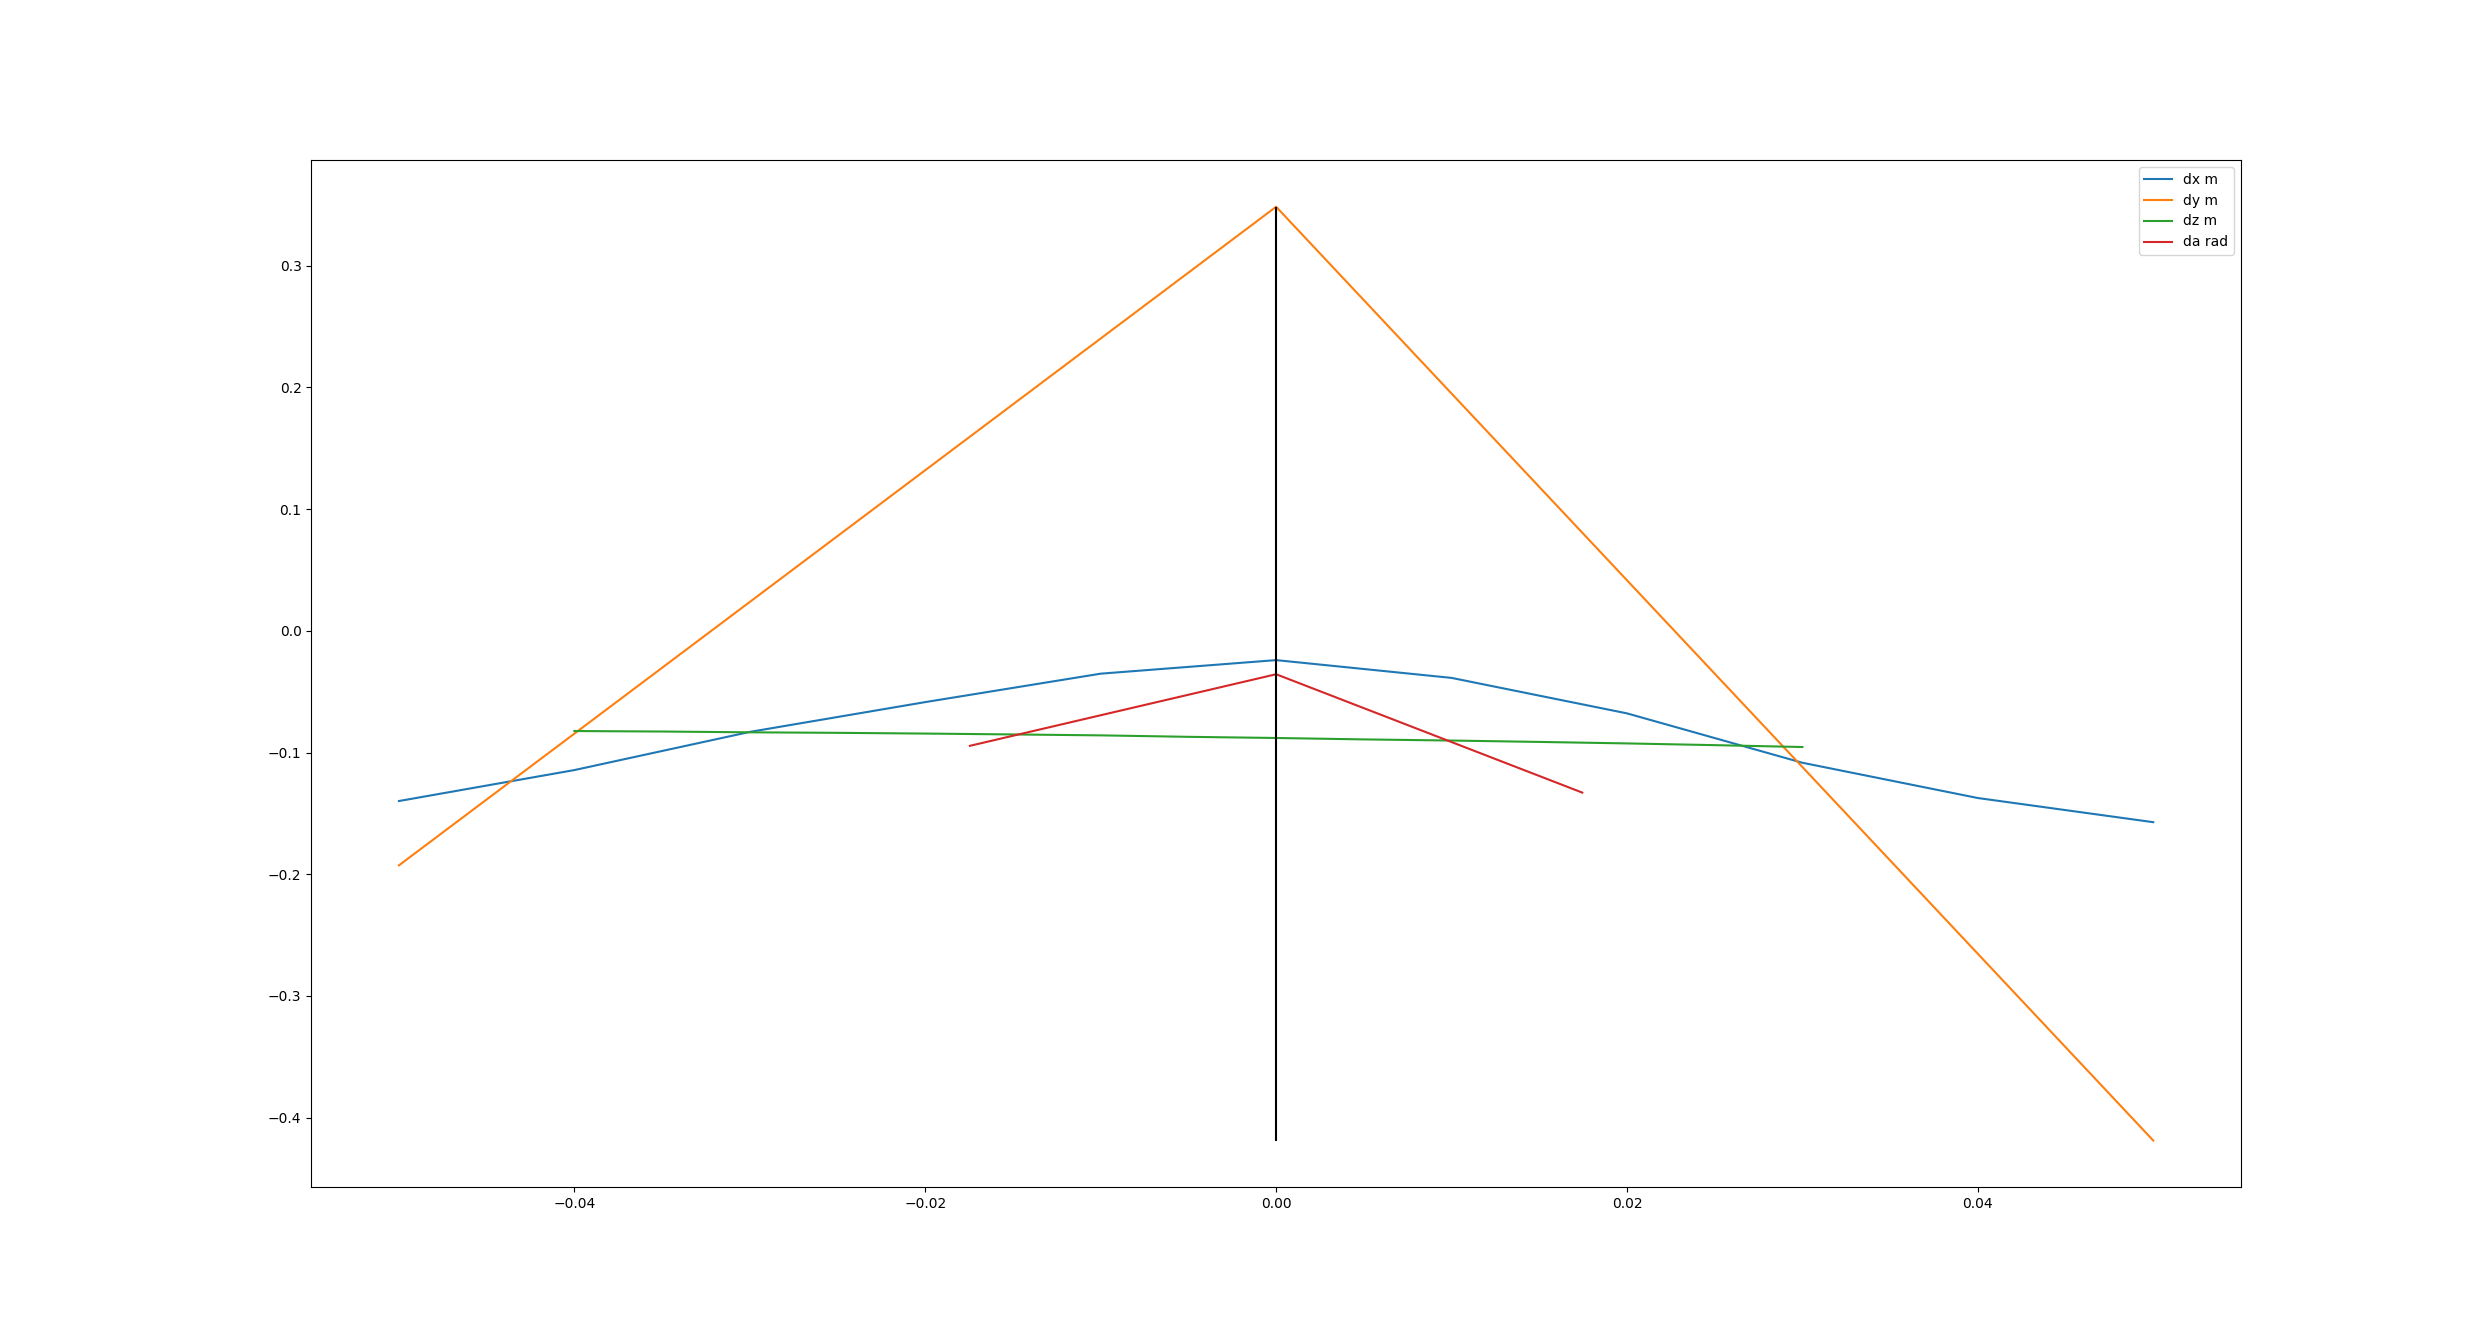
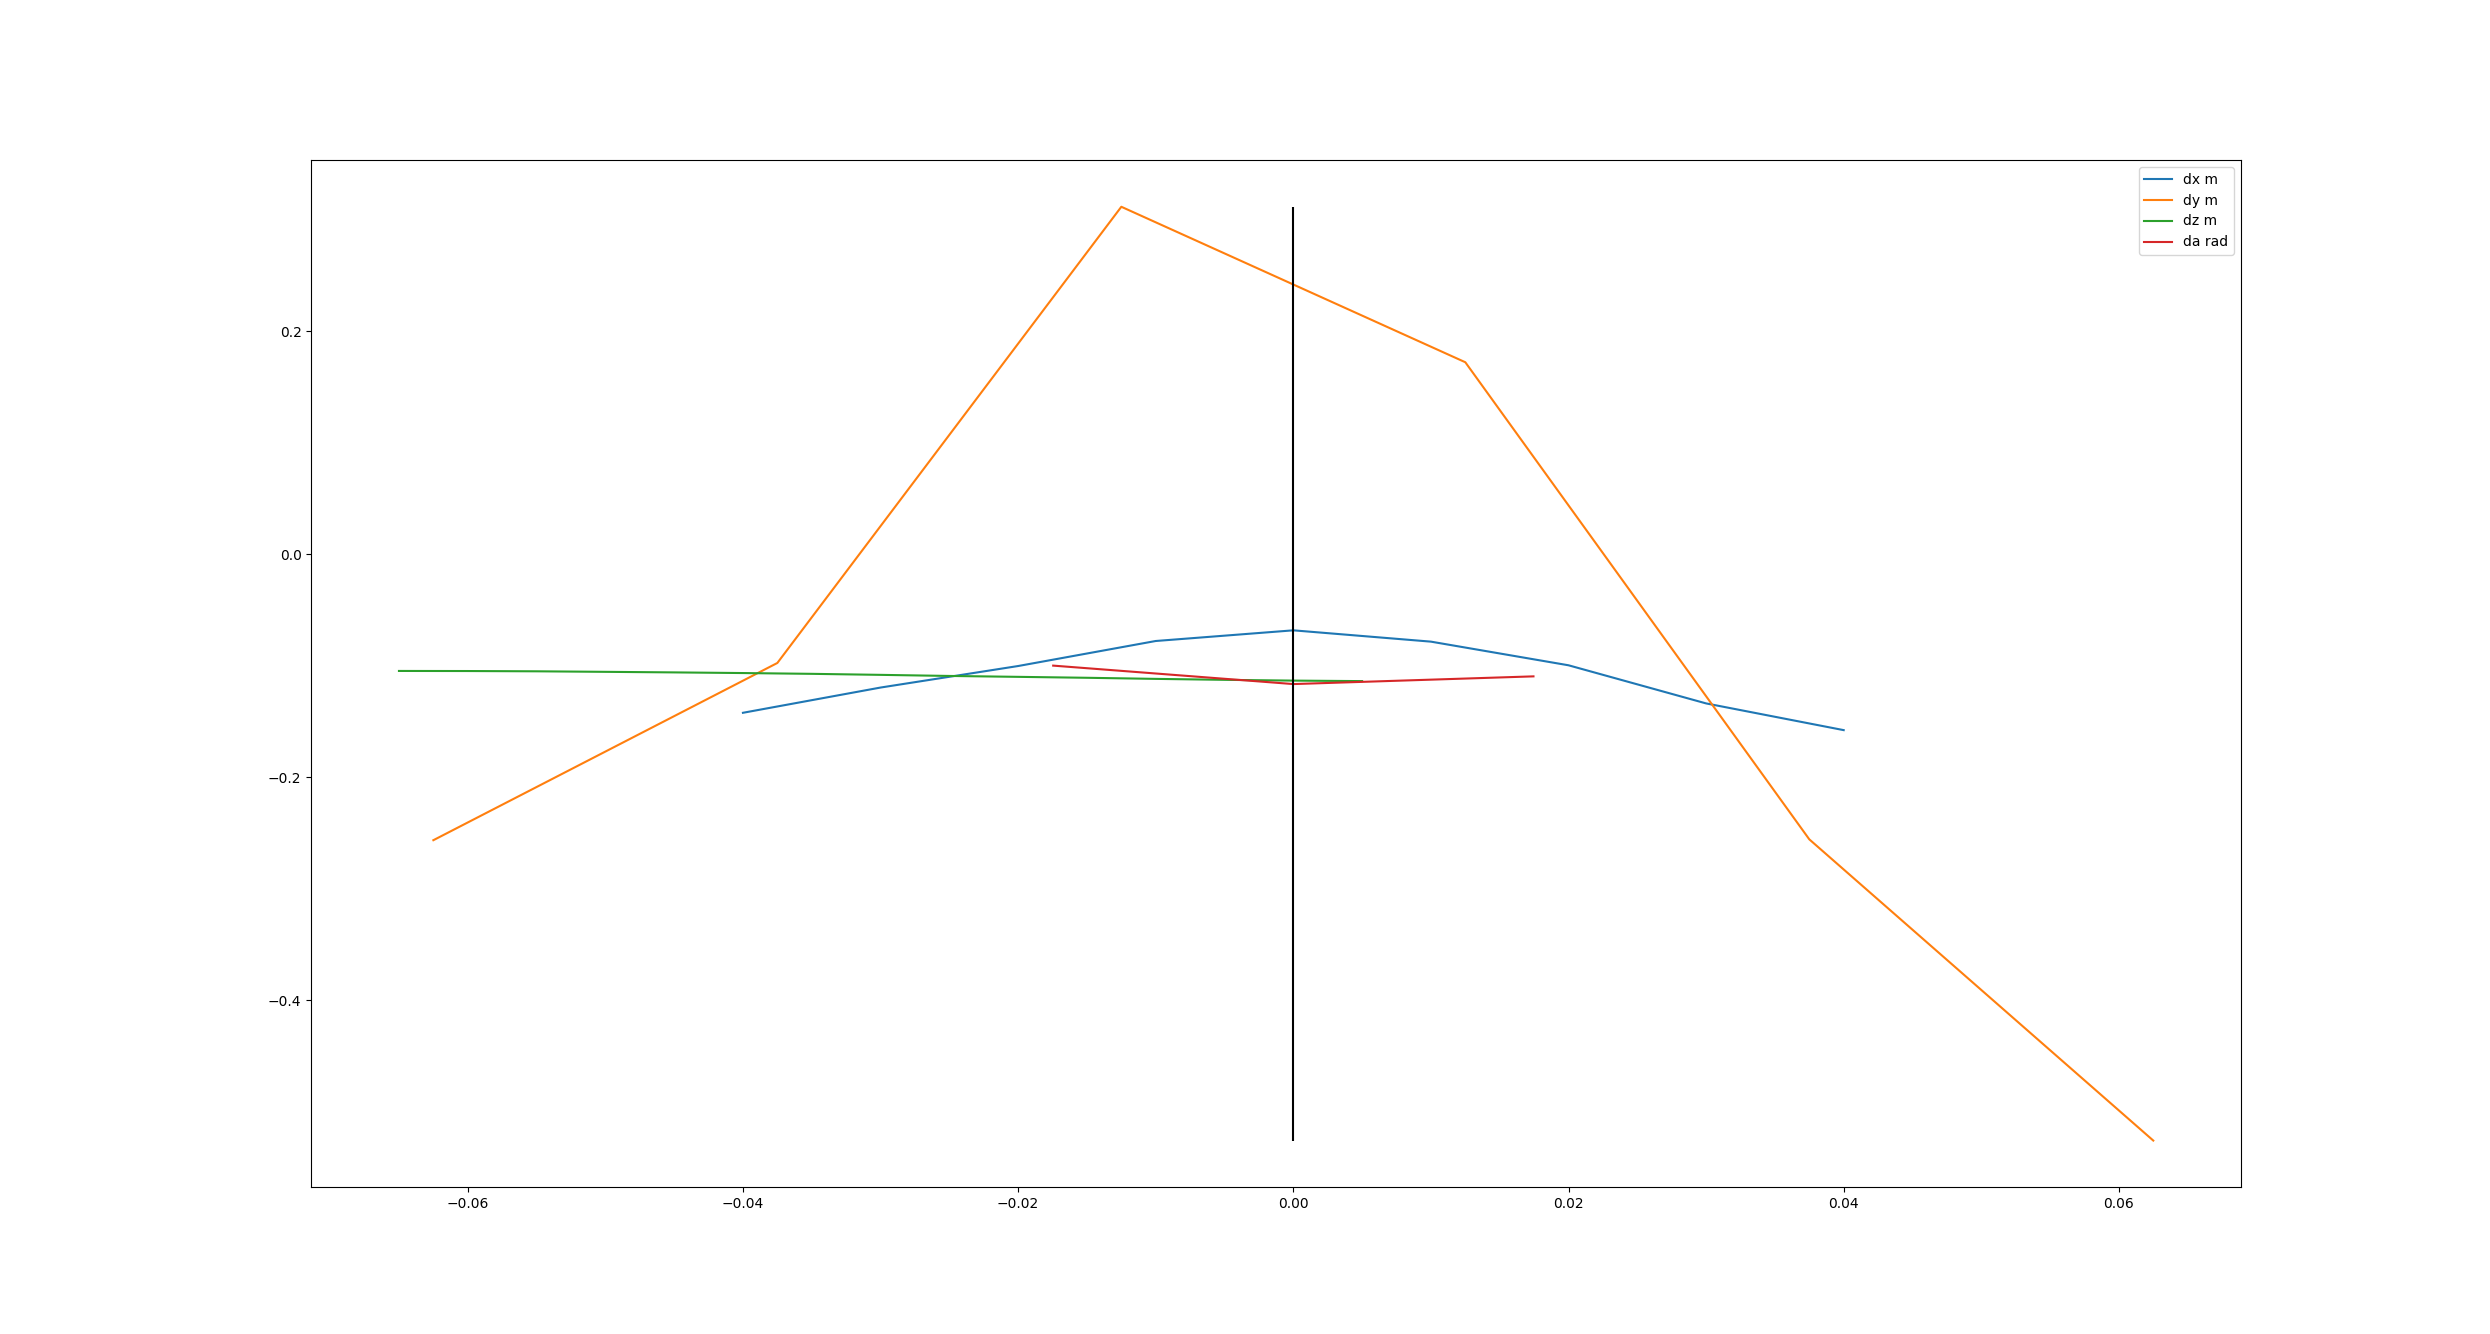
New test range for finer result over the Z axis

diff --git a/Setup_Camera/script_setup_multi.py b/Setup_Camera/script_setup_multi.py
@@ -9,7 +9,7 @@ from utils.classes.Cameras import RGBCamera, IRCamera
 from module.SetupCameras import CameraSetup
 from utils.manipulation_tools import random_noise, noise
 
-cam = 'IR'
+cam = 'RGB'
 setup = 'raw'
 name_path = f'Setup_Camera/position_{"ir" if cam=="IR" else "rgb"}{"_finer" if setup == "fine" else ""}'
 
@@ -33,11 +33,11 @@ if setup == 'raw':
     vec_alpha = (np.arange(0, 4, 1) / 180 * np.pi).tolist()
 
 elif setup == 'fine':
-    vec_x = np.arange(0, 11 * 1e-2, 1e-2)
+    vec_x = np.arange(0, 9 * 1e-2, 1e-2)
     vec_x = (vec_x - vec_x.max() / 2).tolist()
-    vec_z = np.arange(-1e-2, 6.5e-2, 5e-3)
+    vec_z = np.arange(-6e-2, 1.5e-2, 5e-3)
     vec_z = (vec_z - vec_z.max() / 2).tolist()
-    vec_y = np.arange(0, 1.5e-1, 5e-2)
+    vec_y = np.arange(0, 1.5e-1, 2.5e-2)
     vec_y = (vec_y - vec_y.max() / 2).tolist()
     vec_alpha = (np.arange(0, 3, 1) / 180 * np.pi)
     vec_alpha = (vec_alpha - vec_alpha.max() / 2).tolist()
@@ -57,18 +57,29 @@ RGB2 = RGBCamera(None, None, path_RGB2, device=torch.device('cuda'), name='RGB2'
                      aperture=1.4)
 R = CameraSetup(RGB, IR, RGB2, print_info=True)
 
-with tqdm(total=len(vec_x) * len(vec_y) * len(vec_z) * len(vec_alpha), desc='Setups saving') as bar:
+perso = '/home/aurelien/PycharmProjects/Disparity_Pipeline/'
+pro = '/home/godeta/PycharmProjects/Disparity_Pipeline/'
+p = pro if 'godeta' in os.getcwd() else perso
+path_result = p + name_path
+if not os.path.exists(path_result):
+    os.makedirs(path_result, exist_ok=True)
+    os.chmod(path_result, 0o777)
+if os.listdir(path_result):
+    from utils.misc import clear_folder
+    clear_folder(path_result)
+
+with tqdm(total=len(vec_x) * len(vec_y) * len(vec_z) * len(vec_alpha), desc=f'Setups saving for {setup} {cam}') as bar:
     for i, dx in enumerate(vec_x):
         for j, dy in enumerate(vec_y):
             for k, dz in enumerate(vec_z):
                 for h, da in enumerate(vec_alpha):
-                    x, y, z = 0.127 + dx, 0 + dy, 0 + dz
+                    x, y, z = (0.127 + dx, 0 + dy, 0 + dz) if cam == 'IR' else (0.127, 0, 0)
                     rx = math.atan((center_y - y) / d_calib) - math.atan(center_y / d_calib)
                     ry = math.atan((center_x - x) / d_calib) - math.atan(center_x / d_calib)
                     rz = 0 + da
                     R.update_camera_relative_position('IR', x=x, y=y, z=z, ry=ry, rx=rx, rz=rz)
 
-                    x, y, z = 0.127 + 0.214, 0, 0
+                    x, y, z = (0.127 + 0.214 + dx, 0 + dy, 0 + dz) if cam == 'RGB' else (0.127 + 0.214, 0, 0)
                     rx = math.atan((center_y - y) / d_calib) - math.atan(center_y / d_calib)
                     ry = math.atan((center_x - x) / d_calib) - math.atan(center_x / d_calib)
                     rz = 0
@@ -80,13 +91,5 @@ with tqdm(total=len(vec_x) * len(vec_y) * len(vec_z) * len(vec_alpha), desc='Set
                     R.calibration_for_depth('RGB', 'RGB2')
                     name = (f'_dx_{i if i >= 10 else str(0) + str(i)}_dy_{j if j >= 10 else str(0) + str(j)}'
                             f'_dz_{k if k >= 10 else str(0) + str(k)}_da_{h if h >= 10 else str(0) + str(h)}_.yaml')
-                    perso = '/home/aurelien/PycharmProjects/Disparity_Pipeline/'
-                    pro = '/home/godeta/PycharmProjects/Disparity_Pipeline/'
-                    p = pro if 'godeta' in os.getcwd() else perso
-                    path_result = p + name_path
-                    if not os.path.exists(path_result):
-                        os.makedirs(path_result, exist_ok=True)
-                        os.chmod(path_result, 0o777)
-
                     R.save(path_result, name)
                     bar.update(n=1)

diff --git a/test.py b/test.py
@@ -21,7 +21,7 @@ import numpy as np
 
 
 base_path = os.getcwd() + "/results/"
-res = ResultFrame(base_path + "camera_position_ir_finer/Depth-Disparity")
+res = ResultFrame(base_path + "camera_position_ir_finer/Depth-Depth")
 cam = 'IR'
 setup = 'fine test'
 
@@ -38,11 +38,11 @@ if setup == 'raw test':
     vec_px = np.arange(0.75, 2, 0.25) * px_size_ * 1e6
 
 elif setup == 'fine test':
-    vec_x = np.arange(0, 11 * 1e-2, 1e-2)
+    vec_x = np.arange(0, 9 * 1e-2, 1e-2)
     vec_x = (vec_x - vec_x.max() / 2)
-    vec_z = np.arange(-1e-2, 6.5e-2, 5e-3)
+    vec_z = np.arange(-6e-2, 1.5e-2, 5e-3)
     vec_z = (vec_z - vec_z.max() / 2)
-    vec_y = np.arange(0, 1.5e-1, 5e-2)
+    vec_y = np.arange(0, 1.5e-1, 2.5e-2)
     vec_y = (vec_y - vec_y.max() / 2)
     vec_alpha = (np.arange(0, 3, 1) / 180 * np.pi)
     vec_alpha = (vec_alpha - vec_alpha.max() / 2)
@@ -142,7 +142,19 @@ plt.show()
 
 
 time.sleep(1)
-#
+
+# Best Depth 1186 / dz=5, dx=4, dy=2, da=1
+# Best Depth 1984 / dz=1, dx=7, dy=2, da=1
+
+
+
+
+
+
+
+
+
+
 # name = '/home/godeta/PycharmProjects/Disparity_Pipeline/results/Vis/Validation.yaml'
 # with open(name, "r") as file:
 #     val = yaml.safe_load(file)
